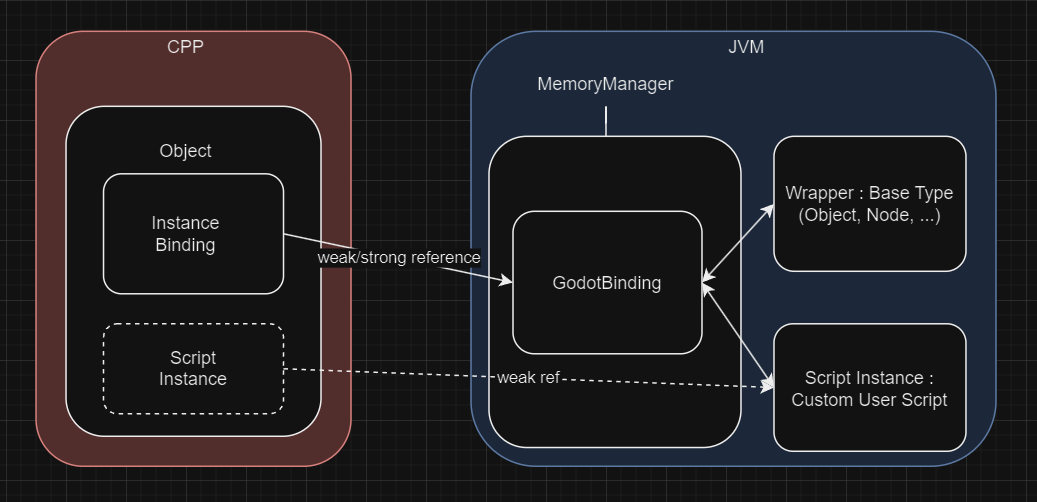
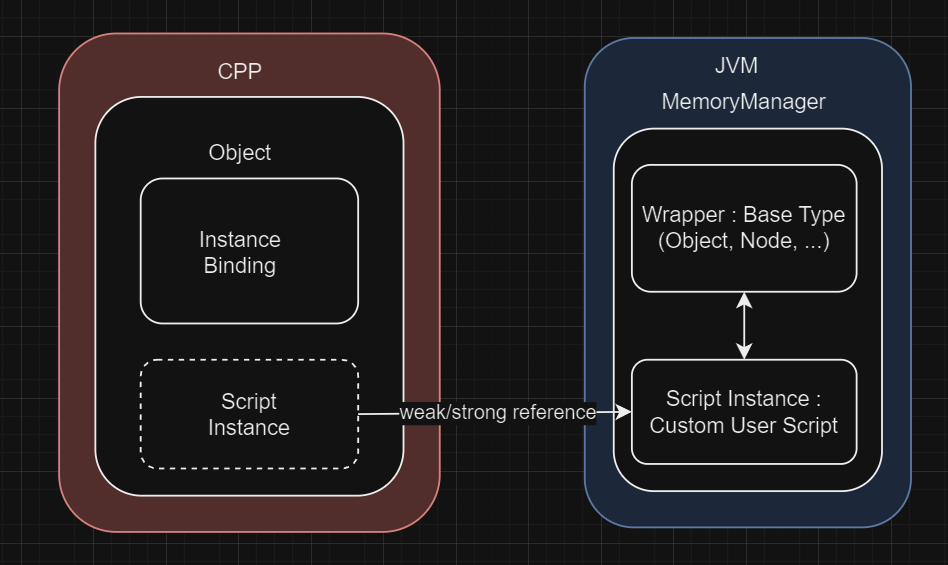
Update doc

diff --git a/docs/src/doc/contribution/knowledge-base/memory-management.md b/docs/src/doc/contribution/knowledge-base/memory-management.md
@@ -44,10 +44,10 @@ they expose a set of Kotlin properties and methods to the C++ so they can be use
 
 In C++ Godot, an object made out of two components: a *base type* and an *optional script*. We mirror the Godot's object structure in the JVM
 with the wrappers and script instances. One major difference is that in C++, the script instance is simply a member of the base script and
-emulate inheritance this way. In Kotlin, for technical reasons, we don't have another choice than doing true inheritance.
-A script instance always inherits a wrapper type. The consequences are that for a given C++ object, we can have 2 different JVM objects, each with their own lifecycle.
+emulate inheritance this way. In Kotlin, for technical reasons, we don't have any other choice than doing true inheritance.
+A script instance always inherits a wrapper type, for the sake of user convenience. Because of this, a C++ object can have up to 2 JVM instances each with their own lifecycle.
 The wrapper is bound to the Godot instance and the script instance is bound to its script.
-A Godot object can freely add, remove and switch script during its lifetime.
+A Godot object can freely add, remove and switch script during its lifetime. The manager must be able to switch between those 2 JVM instance when necessary.
 
 To manage this, we created a singleton named `MemoryManager`, providing the following functionalities:
 
@@ -57,23 +57,32 @@ To manage this, we created a singleton named `MemoryManager`, providing the foll
 
 ![Memory Manager](../../assets/img/memory_manager.png)
 
-It's using a container simply named `GodotBinding`, holding a reference to both wrapper and script instance (when they exist).
-This is this type of object that is used as an `instance binding` back in C++.
-This means that as long as the C++ object is alive, the JVM instances will also stay alive.
+We make use of the instance binding system in Godot. Each native object holds a list of bindings to different languages.
+Those bindings come with a set of callbacks that can be used to notify the language runtime what happens to the object.
+We use those bindings to manage the life of the JVM instances. As long as a Godot object or script is alive, its JVM counterparts will also remain.
 
-### Refcounted management
+### Refcounted base type
 
-`Refcounted` objects are a bit harder to manage as they don't rely on manual management but reference counting.
-Kotlin instances all contribute to increase that counter, so the native object won't die as long as the JVM needs it.
-It's a vicious cycle because throught the binding C++ is also holding a reference to the Kotlin instance, it means they are both keeping each other alive.
-If kept that way, both will never be able to be freed even if unused.
+`Refcounted` objects are a bit harder to manage as they don't rely on manual management but reference counting. We can't manage their life the same way as regular objects.
+Kotlin bindings all contribute to increase that counter, so a `Refcounted` instance won't die as long as the JVM needs it.
+Unlike regular object, a JVM wrapper for a `Refcounted` can die before its native object. When the JVM GC runs on those wrappers, the manager is going to decrease the counter as well.
+It behaves mostly like the equivalent C++ Ref<> container in Godot, the difference being that the counter is decremented in a delay manner(because of GC)
 
-The solution to problem is to transform the instance binding into a *weak reference* when the C++ side no longer use it.
+### Refcounted scripts
+
+Scripts inheriting `Refcounted` are yet another challenge when managing memory, we need to keep those alive as long as the native script instance exist. 
+For that purpose, we directly store a JNI reference to the Kotlin script on the C++ side.
+It's a vicious cycle because. The C++ instance prevents the GC of the Kotlin script, but as long as this script is alive, the counter can't be decremented. 
+It means they are both keeping each other alive. If kept that way, both will never be able to be freed even if unused.
+
+The solution to problem is to transform the JNI reference into a *weak reference* when the C++ side no longer use it.
+We know it's the case when the counter reaches 1 (because then the JVM is the only that didn't decrement it).
 That way, the Godot binding will be able to be freed by the garbage collector. When this happens, the `MemoryManager` will then decrement
 the counter of the C++ `RefCounted` and free it.
 
-### Triangular references
+### Cyclical references
 
-`GodotBinding`, `Wrapper` and `Script Instance` all holds references to each other, linking their lifetimes to each other.
-It's made this way because the binding is the object referenced by the C++ to keep everything alive.
-Conversely, any usage of the wrapper or script instance have to keep the native C++ object alive as well.
+`Wrapper` and `Script Instance` all holds references to each other, linking their lifetimes to each other.
+Even if the manager can freely switch between wrapper and script instance when necessary, this is not the case for regular user code.
+Someone can hold a reference to a wrapper when another part of the code is going to set a script on the native object, creating a script instance in the process.
+In such case, we need to make sure that this wrapper reference can also keep the script alive.

diff --git a/docs/src/doc/user-guide/advanced/cleanup-operations.md b/docs/src/doc/user-guide/advanced/cleanup-operations.md
@@ -12,7 +12,7 @@ fun foo() {
 ```
 
 !!! warning
-Be mindful that this operation happens when Godot has already been partially closed. 
+    Be mindful that this operation happens when Godot has already been partially closed. 
 The SceneTree is no longer present and a part of the Godot API has been unregistered.
 The order of execution is not guaranteed. Make sure that those callbacks don't depend on each other.
 
@@ -23,10 +23,11 @@ This issue is fixed by using the delegate `godotStatic` on singleton properties.
 They automatically handle `Object` and `Reference`. You can also freely set a new value and the previous one will be immediatly freed.
 
 !!! warning
-Only use it on a singleton, otherwise all the properties of all instances are going to be kept alive until the end of the JVM.
+    Only use it on a singleton, otherwise all the properties of all instances are going to be kept alive until the end of the JVM.
 
 ```kotlin
 object GodotStatic {
     var ref = (ResourceLoader.load("res://Spatial.tscn") as PackedScene?).asStatic()
     var myScene = Node().asStatic()
 }
+```
